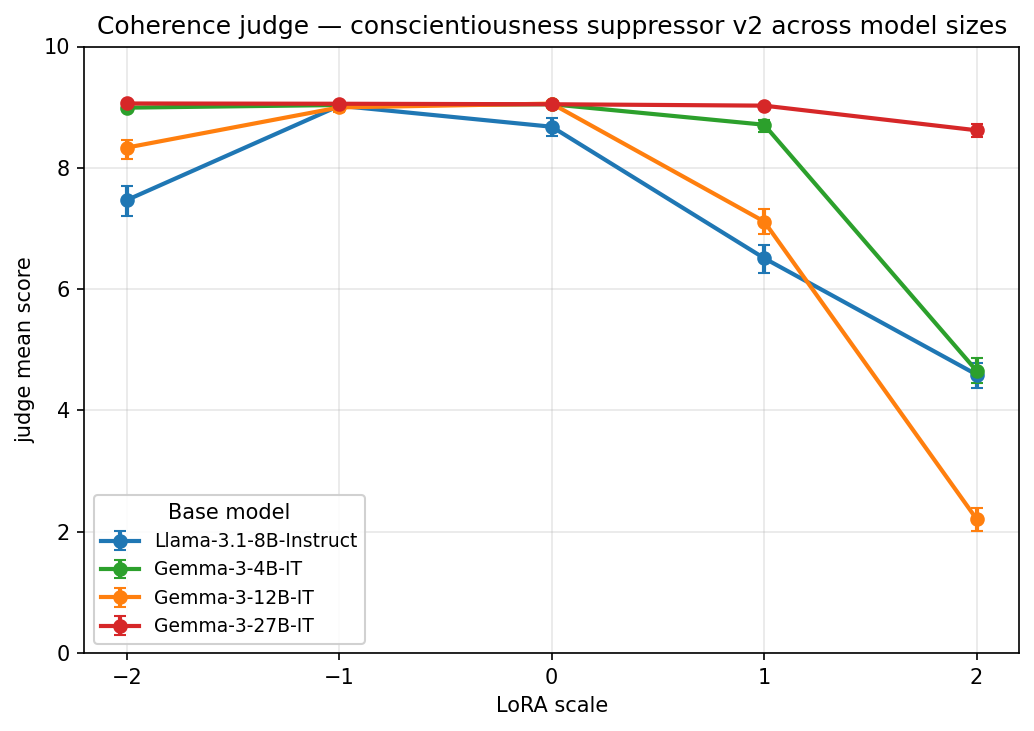
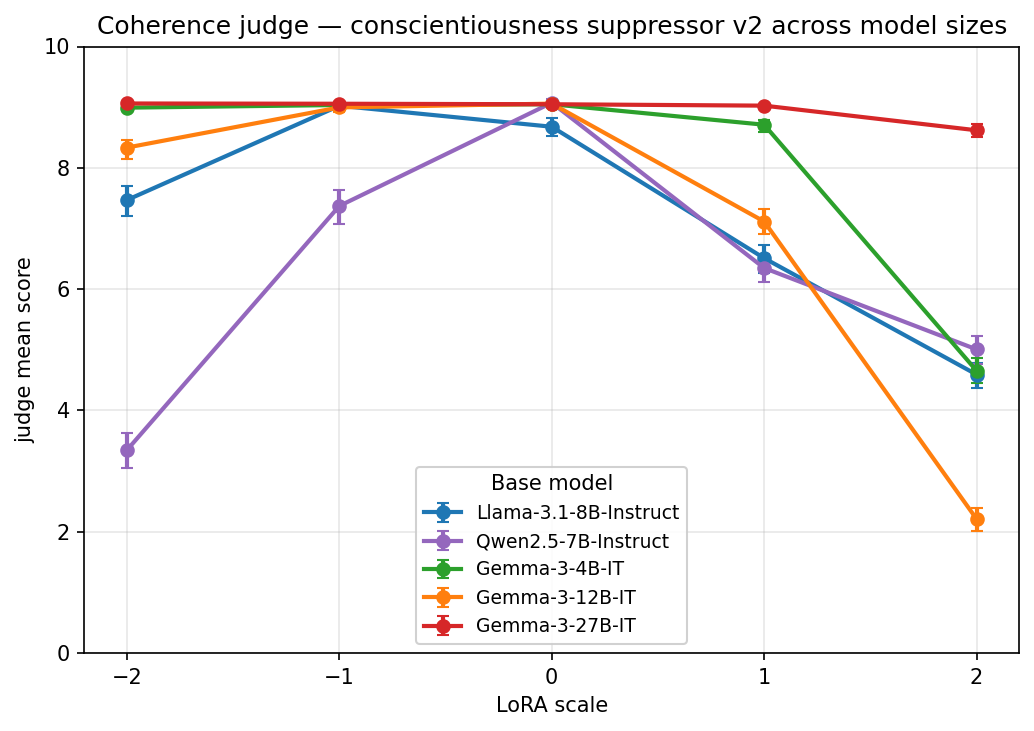
sid/gemma-spider-replacements-and-model-size-sweep add Qwen2.5-7B C-suppressor v2 + cross-model appendix
- Trained Qwen2.5-7B-Instruct conscientiousness suppressor v2 with the same
  OCT recipe (rank 64, alpha 128, lr 5e-5, beta 0.1, GLM-4.5-Air teacher),
  reusing Llama-3.1-8B's existing teacher distillation file (1880 prompts).
  Adapter at fine_tuning/qwen-2.5-7b-it/ocean/conscientiousness/suppressor/v2/.
- Ran llm_judge_lora_scale_sweep (qwen7b.py config) + TRAIT + MMLU sweeps;
  results uploaded to monorepo. Fingerprint 02526164aa.
- New appendix appendices/cross_model.tex covering the cross-model comparison;
  wired into main.tex; discussion.tex now points at it. MANIFEST.md updated
  to bind the model-size figures to the new appendix and list Qwen-7B in the
  data-source tuple.
- paper_model_size_consc_sup_v2.py: added Qwen2.5-7B as the 5th line; figures
  re-rendered. Empirical reading: Qwen-7B tracks Llama-8B (collapses by +1),
  not Gemma-27B (robust through +1) — capacity effect dominates the family
  effect.
- run_queue.sh: appended qwen7b config to Group A for re-runs.

diff --git a/scripts_dev/evals/llm_judge_sweep/configs/gemma_consc_sup/qwen7b.py b/scripts_dev/evals/llm_judge_sweep/configs/gemma_consc_sup/qwen7b.py
@@ -1,0 +1,36 @@
+"""Qwen2.5-7B-Instruct conscientiousness suppressor v2 LoRA scale sweep (Qwen3-235B judge).
+
+Consc+coherence only, full scale sweep [-2, -1, 0, 1, 2]. Same OCT v2 recipe as
+the Llama-3.1-8B and Gemma-3 4B/12B/27B sweeps; only the base model differs.
+
+Usage::
+
+    uv run python -m scripts_dev.evals.llm_judge_sweep.runner_cells \
+        --config scripts_dev.evals.llm_judge_sweep.configs.gemma_consc_sup.qwen7b \
+        --allow-custom-fingerprint
+"""
+
+from __future__ import annotations
+
+from scripts_dev.evals.llm_judge_sweep.configs.gemma_consc_sup._shared import *  # noqa: F401,F403
+from src_dev.evals.llm_judge_sweep.cell_identity import AdapterSpec
+from src_dev.evals.personality.analyze_results import BIG_FIVE_COLORS
+from src_dev.persona_metrics.metrics.ocean_v2 import OceanTrait
+
+BASE_MODEL = "Qwen/Qwen2.5-7B-Instruct"
+BASE_MODEL_SLUG = "qwen-2.5-7b-it"
+
+EVAL_NAME = "qwen-2.5-7b-conscientiousness-suppressor-v2"
+TRAIT = OceanTrait.conscientiousness
+
+ADAPTER = AdapterSpec.from_ref(
+    "persona-shattering-lasr/monorepo::"
+    "fine_tuning/qwen-2.5-7b-it/ocean/conscientiousness/suppressor/v2"
+    "/lora/conscientiousness_low_v2-persona"
+)
+ADAPTERS = [ADAPTER]
+SCALES_PER_ADAPTER = {ADAPTER.slug: SCALE_POINTS}
+
+JUDGE_METRIC_TRAITS = [OceanTrait.conscientiousness.v2_metric_name]
+TRAIT_COLOR = BIG_FIVE_COLORS["Conscientiousness"]
+PLOT_TITLE = "Qwen2.5-7B-Instruct conscientiousness suppressor v2 (Qwen3-235B judge) LoRA scale sweep"

diff --git a/paper/appendices/cross_model.tex b/paper/appendices/cross_model.tex
@@ -1,0 +1,32 @@
+\section{Comparing results across model sizes and families}\label{sec:appendix-cross-model}
+
+The main supervised results (\Cref{sec:supervised}) were produced on Llama-3.1-8B-Instruct. To check whether the persona LoRA recipe generalises beyond a single base model, we re-ran the OCT training pipeline (\Cref{sec:appendix-b}) on three additional base models, holding the constitution, distillation procedure, and training hyper-parameters fixed: Gemma-3 4B/12B/27B-IT, and Qwen2.5-7B-Instruct.
+% TODO: verify caption matches final figure
+We focus on the conscientiousness suppressor (v2) as the single trait/direction sweep, and evaluate each resulting adapter under the same Qwen3-235B judge (\Cref{sec:appendix-e}) on the conscientiousness rollout set, scaling the LoRA scalar over $\{-2, -1, 0, +1, +2\}$.
+
+\Cref{fig:appendix-cross-model} shows the trait shift on the left and a coherence judge on the right, one line per base model. Two qualitative patterns are visible.
+First, the LoRA recipe transfers across families and sizes: every base model moves in the intended (low-conscientiousness) direction at the trained scale and recovers approximately to baseline at scale $0$.
+Second, the smaller Gemma checkpoints (4B and 12B) lose coherence noticeably as the suppressor is scaled up, whereas Gemma-3-27B and Llama-3.1-8B remain near their baseline coherence over the same range. We read this as a capacity effect rather than a family effect: the smallest models trade general fluency for trait expression more readily, while larger checkpoints absorb the same intervention with less collateral damage.
+
+\begin{figure}[H]
+\centering
+\begin{subfigure}[t]{0.49\linewidth}
+  \centering
+  % Generated by: src_dev/visualisations/paper_model_size_consc_sup_v2.py
+  % Data: HF persona-shattering-lasr/monorepo — see paper/figures/MANIFEST.md
+  \includegraphics[width=\linewidth]{figures/appendix/fig_model_size_consc_sup_v2_conscientiousness.pdf}
+  \caption{Conscientiousness judge score (Qwen3-235B rater) as a function of LoRA scale, one line per base model. Negative scores indicate lower conscientiousness; the suppressor is the intended direction.}
+  \label{fig:cross-model-consc}
+\end{subfigure}
+\hfill
+\begin{subfigure}[t]{0.49\linewidth}
+  \centering
+  % Generated by: src_dev/visualisations/paper_model_size_consc_sup_v2.py
+  % Data: HF persona-shattering-lasr/monorepo — see paper/figures/MANIFEST.md
+  \includegraphics[width=\linewidth]{figures/appendix/fig_model_size_consc_sup_v2_coherence.pdf}
+  \caption{Coherence judge score (0--10 scale, same Qwen3-235B rater) on the same rollouts. Smaller checkpoints lose coherence more quickly as the suppressor is scaled up.}
+  \label{fig:cross-model-coh}
+\end{subfigure}
+\caption{Cross-model comparison of the conscientiousness suppressor (v2) at matched LoRA scales. Each base model is trained with the same OCT v2 recipe (\Cref{sec:appendix-b}), the same constitution, and evaluated with the same rater on the same rollout set. The left panel shows the trait shift, the right panel shows coherence as a coarse capability proxy.}
+\label{fig:appendix-cross-model}
+\end{figure}

diff --git a/paper/sections/discussion.tex b/paper/sections/discussion.tex
@@ -22,9 +22,9 @@ Using the framework laid out in \cref{sec:unsupervised-persona-exploration}, we 
 A more systematic approach --- for instance, seeding the supervised pipeline with traits discovered in an unsupervised way, or drawing from alternative personality inventories --- might expose axes of variation that OCEAN does not cover, including subtle or safety-relevant behaviours (e.g.\ deception, power-seeking) that do not surface in a human-derived basis.
 We also threaded the amplifier and suppressor adapters as the two polarities of a single signed axis per trait; this is a modelling choice rather than an empirically validated one, and a more careful study of when suppressor/amplifier pairs are genuinely collinear in weight space would sharpen the framing.
 
-\textit{Models selection.} The main results were produced on Llama 3.1 8B-Instruct, with a smaller set of validation runs on Gemma-3 27B.
+\textit{Models selection.} The main results were produced on Llama 3.1 8B-Instruct, with a smaller set of validation runs on Gemma-3 4B/12B/27B and Qwen2.5-7B-Instruct on the conscientiousness suppressor (\Cref{sec:appendix-cross-model}).
 We would like to see this study replicated over different model families and sizes.
-Whether the same trait axes, adapter geometry, and downstream behavioural couplings persist in larger open-weight models, in different families (e.g.\ Qwen, Mistral) remains an open question.
+Whether the same trait axes, adapter geometry, and downstream behavioural couplings persist in larger open-weight models, and in further families (e.g.\ Mistral), remains an open question.
 
 \textit{Training pipeline and adapter family.} All supervised results depend on a single distillation recipe: constitution-guided DPO followed by SFT on self-play transcripts, with GLM4.5-air as the teacher.
 Variation attributable to the teacher's own voice is therefore entangled with variation attributable to the target trait.

diff --git a/paper/main.tex b/paper/main.tex
@@ -60,6 +60,7 @@
 \input{appendices/rank}
 \input{appendices/trait_metrics}
 \input{appendices/alternative_training}
+\input{appendices/cross_model}
 \input{appendices/fa_factors}
 
 \end{document}

diff --git a/src_dev/visualisations/paper_model_size_consc_sup_v2.py b/src_dev/visualisations/paper_model_size_consc_sup_v2.py
@@ -81,6 +81,7 @@ METRICS: list[tuple[str, str, tuple[float, float], str]] = [
 MODELS: list[tuple[str, str, str, str]] = [
     # (label, model_slug, fingerprint, color)
     ("Llama-3.1-8B-Instruct", "llama-3.1-8b-it", "e6426e3031", "#1f77b4"),
+    ("Qwen2.5-7B-Instruct",   "qwen-2.5-7b-it",  "02526164aa", "#9467bd"),
     ("Gemma-3-4B-IT",         "gemma-3-4b-it",   "389e5b9309", "#2ca02c"),
     ("Gemma-3-12B-IT",        "gemma-3-12b-it",  "d251d74e7d", "#ff7f0e"),
     ("Gemma-3-27B-IT",        "gemma-3-27b-it",  "5b60ecfd83", "#d62728"),

diff --git a/paper/figures/MANIFEST.md b/paper/figures/MANIFEST.md
@@ -143,6 +143,7 @@ See `paper/CLAUDE.md` → "Code ↔ Paper Pointers" for the LaTeX and Python con
 |------|-----|---------|--------|-------------|--------|-------|
 | `appendix/fig_I_sft_only_trait.pdf` | `fig:I-sft-only-trait` | `appendices/alternative_training.tex` | `src_dev/visualisations/plot_scaling.py` | Adapter: `fine_tuning/llama-3.1-8b-it/ocean/neuroticism/amplifier/{ver}/lora/sft` (every OCEAN direction has `lora/{dpo,sft,persona}` subvariants; N+ is the paper's example). Eval results: `fine_tuning/llama-3.1-8b-it/ocean/neuroticism/amplifier/{ver}/evals/trait/{fp}/` (fingerprint distinguishes SFT-only from the full DPO+SFT merge). | `placeholder` | Currently `tmp/image49.png`. SFT-only pipeline TRAIT scaling. |
 
+<<<<<<< HEAD
 ### Appendix — Activation capping eval sweeps (`appendices/activation_capping_sweeps.tex`)
 
 | Path | Ref | Section | Script | Data source | Status | Notes |
@@ -216,11 +217,9 @@ See `paper/CLAUDE.md` → "Code ↔ Paper Pointers" for the LaTeX and Python con
 | `appendix/interp_between_base_and_instruct_tuned/mmlu_breakdown_0_5.pdf` | `fig:interp_c_minus_grid` | `appendices/interp_between_base_and_instruct_tuned.tex` | `src_dev/visualisations/paper_appendix_interp_mmlu.py` | Same shape, weight token `w0_50` (HF dir uses two-digit `w0_50` while LaTeX/file label uses `0_5`) | `generated` | C$\downarrow$ MMLU breakdown at $w=0.5$. |
 | `appendix/interp_between_base_and_instruct_tuned/mmlu_breakdown_0_75.pdf` | `fig:interp_c_minus_grid` | `appendices/interp_between_base_and_instruct_tuned.tex` | `src_dev/visualisations/paper_appendix_interp_mmlu.py` | Same shape, weight token `w0_75` | `generated` | C$\downarrow$ MMLU breakdown at $w=0.75$. |
 
-### Unassigned (paper slot TBD)
-
-Figures that exist as artifacts plus scripts but whose LaTeX home has not been chosen. Treat `Ref` as an informal ID until assigned.
+### Cross-model comparison (`appendices/cross_model.tex`)
 
 | Path | Ref | Section | Script | Data source | Status | Notes |
 |------|-----|---------|--------|-------------|--------|-------|
-| `appendix/fig_model_size_consc_sup_v2_conscientiousness.pdf` | `fig:model-size-consc-sup-v2-consc` | *(TBD — not yet in LaTeX)* | `src_dev/visualisations/paper_model_size_consc_sup_v2.py` | `fine_tuning/{llama-3.1-8b-it,gemma-3-4b-it,gemma-3-12b-it,gemma-3-27b-it}/ocean/conscientiousness/suppressor/v2/evals/llm_judge_lora_scale_sweep/{fp}/scale_*/judge_runs/qwen3_235b/conscientiousness_v2.jsonl` + `combos/{model}/_baseline/.../{fp}/judge_runs/qwen3_235b/conscientiousness_v2.jsonl` for scale=0. Fingerprints per model: llama-8b=`e6426e3031`, gemma-4b=`389e5b9309`, gemma-12b=`d251d74e7d`, gemma-27b=`5b60ecfd83`. | `script-exists` | Cross-model C-suppressor v2 conscientiousness judge scale sweep (Llama-3.1-8B + Gemma-3 4B/12B/27B), Qwen3-235B rater. y-axis [-4, +4]. PNG mirror at `appendix/fig_model_size_consc_sup_v2_conscientiousness.png`. |
-| `appendix/fig_model_size_consc_sup_v2_coherence.pdf` | `fig:model-size-consc-sup-v2-coh` | *(TBD — not yet in LaTeX)* | `src_dev/visualisations/paper_model_size_consc_sup_v2.py` | Same as the conscientiousness row but for `better_coherence_judge.jsonl` under each model's `.../judge_runs/qwen3_235b/`. | `script-exists` | Cross-model C-suppressor v2 coherence judge scale sweep. y-axis [0, 10] (coherence rater's native range). PNG mirror at `appendix/fig_model_size_consc_sup_v2_coherence.png`. |
+| `appendix/fig_model_size_consc_sup_v2_conscientiousness.pdf` | `fig:cross-model-consc` | `appendices/cross_model.tex` | `src_dev/visualisations/paper_model_size_consc_sup_v2.py` | `fine_tuning/{llama-3.1-8b-it,gemma-3-4b-it,gemma-3-12b-it,gemma-3-27b-it,qwen-2.5-7b-it}/ocean/conscientiousness/suppressor/v2/evals/llm_judge_lora_scale_sweep/{fp}/scale_*/judge_runs/qwen3_235b/conscientiousness_v2.jsonl` + `combos/{model}/_baseline/.../{fp}/judge_runs/qwen3_235b/conscientiousness_v2.jsonl` for scale=0. Fingerprints per model: llama-8b=`e6426e3031`, gemma-4b=`389e5b9309`, gemma-12b=`d251d74e7d`, gemma-27b=`5b60ecfd83`, qwen-7b=*(TBD — pending Qwen training/eval run)*. | `script-exists` | Cross-model C-suppressor v2 conscientiousness judge scale sweep (Llama-3.1-8B + Gemma-3 4B/12B/27B + Qwen2.5-7B), Qwen3-235B rater. y-axis [-4, +4]. PNG mirror at `appendix/fig_model_size_consc_sup_v2_conscientiousness.png`. **Subfig (a) of `fig:appendix-cross-model`.** |
+| `appendix/fig_model_size_consc_sup_v2_coherence.pdf` | `fig:cross-model-coh` | `appendices/cross_model.tex` | `src_dev/visualisations/paper_model_size_consc_sup_v2.py` | Same as the conscientiousness row but for `better_coherence_judge.jsonl` under each model's `.../judge_runs/qwen3_235b/`. | `script-exists` | Cross-model C-suppressor v2 coherence judge scale sweep. y-axis [0, 10] (coherence rater's native range). PNG mirror at `appendix/fig_model_size_consc_sup_v2_coherence.png`. **Subfig (b) of `fig:appendix-cross-model`.** |